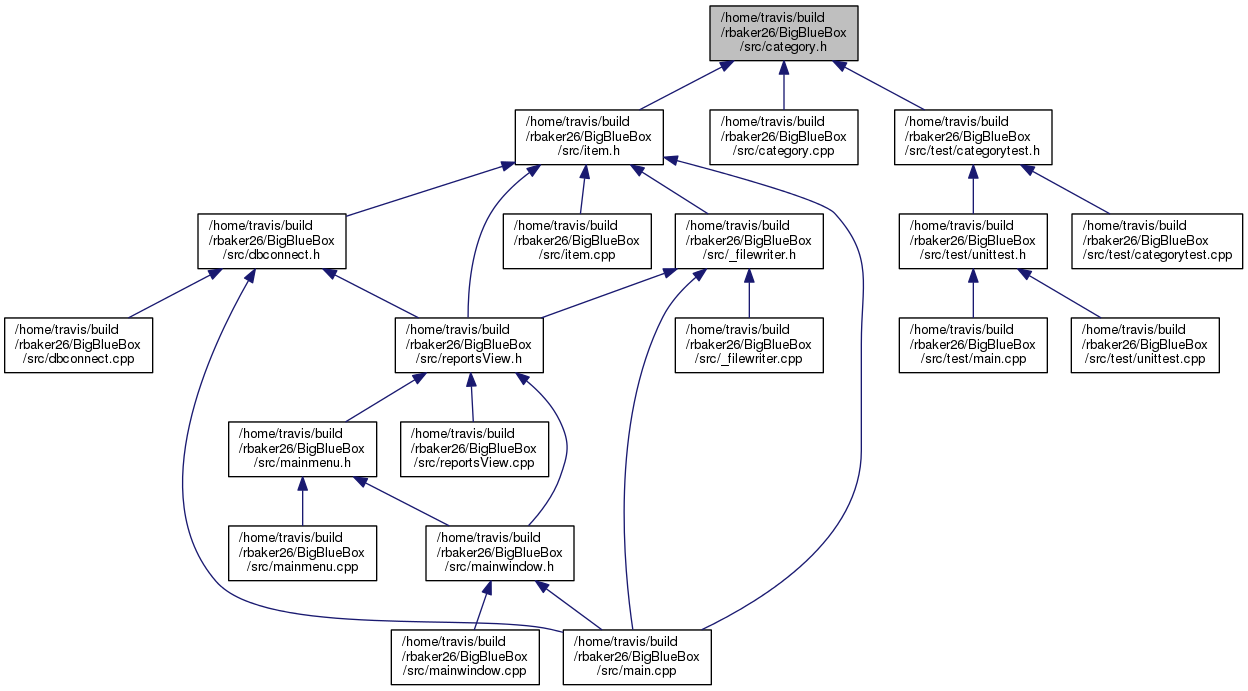
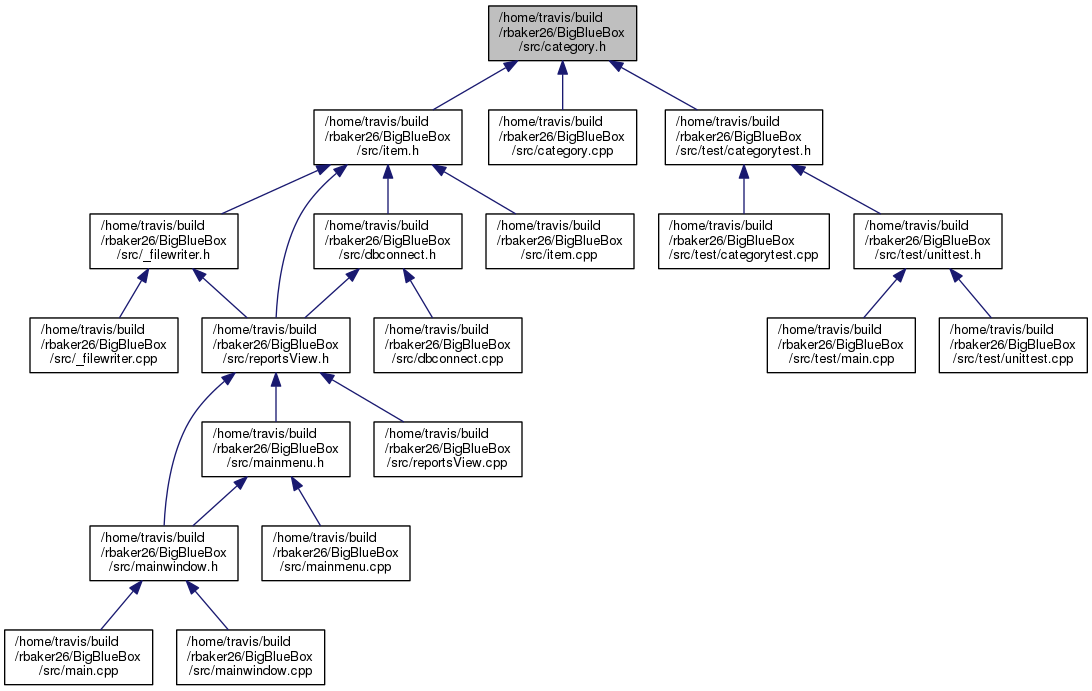
Deploy code docs to GitHub Pages Travis build: 295
Commit: ec091110b0eab5504ca6eb4e4512eb49ed3b5c34

diff --git a/html/category_8h.html b/html/category_8h.html
@@ -106,7 +106,7 @@ This graph shows which files directly or indirectly include this file:</div>
 <div class="dyncontent">
 <div class="center"><img src="category_8h__dep__incl.png" border="0" usemap="#_2home_2travis_2build_2rbaker26_2_big_blue_box_2src_2category_8hdep" alt=""/></div>
 <map name="_2home_2travis_2build_2rbaker26_2_big_blue_box_2src_2category_8hdep" id="_2home_2travis_2build_2rbaker26_2_big_blue_box_2src_2category_8hdep">
-<area shape="rect" id="node2" href="item_8h.html" title="/home/travis/build\l/rbaker26/BigBlueBox\l/src/item.h" alt="" coords="515,109,663,165"/><area shape="rect" id="node15" href="category_8cpp.html" title="/home/travis/build\l/rbaker26/BigBlueBox\l/src/category.cpp" alt="" coords="710,109,857,165"/><area shape="rect" id="node16" href="categorytest_8h.html" title="/home/travis/build\l/rbaker26/BigBlueBox\l/src/test/categorytest.h" alt="" coords="895,109,1052,165"/><area shape="rect" id="node3" href="__filewriter_8h.html" title="/home/travis/build\l/rbaker26/BigBlueBox\l/src/_filewriter.h" alt="" coords="675,213,823,269"/><area shape="rect" id="node5" href="reports_view_8h.html" title="/home/travis/build\l/rbaker26/BigBlueBox\l/src/reportsView.h" alt="" coords="395,317,543,373"/><area shape="rect" id="node7" href="main_8cpp.html" title="/home/travis/build\l/rbaker26/BigBlueBox\l/src/main.cpp" alt="" coords="563,629,711,685"/><area shape="rect" id="node12" href="dbconnect_8h.html" title="/home/travis/build\l/rbaker26/BigBlueBox\l/src/dbconnect.h" alt="" coords="198,213,345,269"/><area shape="rect" id="node14" href="item_8cpp.html" title="/home/travis/build\l/rbaker26/BigBlueBox\l/src/item.cpp" alt="" coords="503,213,651,269"/><area shape="rect" id="node4" href="__filewriter_8cpp.html" title="/home/travis/build\l/rbaker26/BigBlueBox\l/src/_filewriter.cpp" alt="" coords="675,317,823,373"/><area shape="rect" id="node6" href="mainwindow_8h.html" title="/home/travis/build\l/rbaker26/BigBlueBox\l/src/mainwindow.h" alt="" coords="426,525,573,581"/><area shape="rect" id="node9" href="mainmenu_8h.html" title="/home/travis/build\l/rbaker26/BigBlueBox\l/src/mainmenu.h" alt="" coords="229,421,376,477"/><area shape="rect" id="node11" href="reports_view_8cpp.html" title="/home/travis/build\l/rbaker26/BigBlueBox\l/src/reportsView.cpp" alt="" coords="401,421,548,477"/><area shape="rect" id="node8" href="mainwindow_8cpp.html" title="/home/travis/build\l/rbaker26/BigBlueBox\l/src/mainwindow.cpp" alt="" coords="391,629,539,685"/><area shape="rect" id="node10" href="mainmenu_8cpp.html" title="/home/travis/build\l/rbaker26/BigBlueBox\l/src/mainmenu.cpp" alt="" coords="229,525,376,581"/><area shape="rect" id="node13" href="dbconnect_8cpp.html" title="/home/travis/build\l/rbaker26/BigBlueBox\l/src/dbconnect.cpp" alt="" coords="5,317,152,373"/><area shape="rect" id="node17" href="categorytest_8cpp.html" title="/home/travis/build\l/rbaker26/BigBlueBox\l/src/test/categorytest.cpp" alt="" coords="1072,213,1243,269"/><area shape="rect" id="node18" href="unittest_8h.html" title="/home/travis/build\l/rbaker26/BigBlueBox\l/src/test/unittest.h" alt="" coords="899,213,1047,269"/><area shape="rect" id="node19" href="test_2main_8cpp.html" title="/home/travis/build\l/rbaker26/BigBlueBox\l/src/test/main.cpp" alt="" coords="899,317,1047,373"/><area shape="rect" id="node20" href="unittest_8cpp.html" title="/home/travis/build\l/rbaker26/BigBlueBox\l/src/test/unittest.cpp" alt="" coords="1071,317,1219,373"/></map>
+<area shape="rect" id="node2" href="item_8h.html" title="/home/travis/build\l/rbaker26/BigBlueBox\l/src/item.h" alt="" coords="314,109,461,165"/><area shape="rect" id="node15" href="category_8cpp.html" title="/home/travis/build\l/rbaker26/BigBlueBox\l/src/category.cpp" alt="" coords="489,109,636,165"/><area shape="rect" id="node16" href="categorytest_8h.html" title="/home/travis/build\l/rbaker26/BigBlueBox\l/src/test/categorytest.h" alt="" coords="665,109,823,165"/><area shape="rect" id="node3" href="__filewriter_8h.html" title="/home/travis/build\l/rbaker26/BigBlueBox\l/src/_filewriter.h" alt="" coords="90,213,237,269"/><area shape="rect" id="node5" href="reports_view_8h.html" title="/home/travis/build\l/rbaker26/BigBlueBox\l/src/reportsView.h" alt="" coords="202,317,349,373"/><area shape="rect" id="node12" href="dbconnect_8h.html" title="/home/travis/build\l/rbaker26/BigBlueBox\l/src/dbconnect.h" alt="" coords="314,213,461,269"/><area shape="rect" id="node14" href="item_8cpp.html" title="/home/travis/build\l/rbaker26/BigBlueBox\l/src/item.cpp" alt="" coords="486,213,633,269"/><area shape="rect" id="node4" href="__filewriter_8cpp.html" title="/home/travis/build\l/rbaker26/BigBlueBox\l/src/_filewriter.cpp" alt="" coords="30,317,177,373"/><area shape="rect" id="node6" href="mainwindow_8h.html" title="/home/travis/build\l/rbaker26/BigBlueBox\l/src/mainwindow.h" alt="" coords="90,525,237,581"/><area shape="rect" id="node9" href="mainmenu_8h.html" title="/home/travis/build\l/rbaker26/BigBlueBox\l/src/mainmenu.h" alt="" coords="202,421,349,477"/><area shape="rect" id="node11" href="reports_view_8cpp.html" title="/home/travis/build\l/rbaker26/BigBlueBox\l/src/reportsView.cpp" alt="" coords="374,421,521,477"/><area shape="rect" id="node7" href="main_8cpp.html" title="/home/travis/build\l/rbaker26/BigBlueBox\l/src/main.cpp" alt="" coords="5,629,152,685"/><area shape="rect" id="node8" href="mainwindow_8cpp.html" title="/home/travis/build\l/rbaker26/BigBlueBox\l/src/mainwindow.cpp" alt="" coords="177,629,324,685"/><area shape="rect" id="node10" href="mainmenu_8cpp.html" title="/home/travis/build\l/rbaker26/BigBlueBox\l/src/mainmenu.cpp" alt="" coords="262,525,409,581"/><area shape="rect" id="node13" href="dbconnect_8cpp.html" title="/home/travis/build\l/rbaker26/BigBlueBox\l/src/dbconnect.cpp" alt="" coords="374,317,521,373"/><area shape="rect" id="node17" href="categorytest_8cpp.html" title="/home/travis/build\l/rbaker26/BigBlueBox\l/src/test/categorytest.cpp" alt="" coords="659,213,829,269"/><area shape="rect" id="node18" href="unittest_8h.html" title="/home/travis/build\l/rbaker26/BigBlueBox\l/src/test/unittest.h" alt="" coords="854,213,1001,269"/><area shape="rect" id="node19" href="test_2main_8cpp.html" title="/home/travis/build\l/rbaker26/BigBlueBox\l/src/test/main.cpp" alt="" coords="767,317,915,373"/><area shape="rect" id="node20" href="unittest_8cpp.html" title="/home/travis/build\l/rbaker26/BigBlueBox\l/src/test/unittest.cpp" alt="" coords="939,317,1087,373"/></map>
 </div>
 </div>
 <p><a href="category_8h_source.html">Go to the source code of this file.</a></p>

diff --git a/html/item_8h.html b/html/item_8h.html
@@ -107,7 +107,7 @@ This graph shows which files directly or indirectly include this file:</div>
 <div class="dyncontent">
 <div class="center"><img src="item_8h__dep__incl.png" border="0" usemap="#_2home_2travis_2build_2rbaker26_2_big_blue_box_2src_2item_8hdep" alt=""/></div>
 <map name="_2home_2travis_2build_2rbaker26_2_big_blue_box_2src_2item_8hdep" id="_2home_2travis_2build_2rbaker26_2_big_blue_box_2src_2item_8hdep">
-<area shape="rect" id="node2" href="__filewriter_8h.html" title="/home/travis/build\l/rbaker26/BigBlueBox\l/src/_filewriter.h" alt="" coords="162,109,309,165"/><area shape="rect" id="node4" href="reports_view_8h.html" title="/home/travis/build\l/rbaker26/BigBlueBox\l/src/reportsView.h" alt="" coords="293,213,440,269"/><area shape="rect" id="node6" href="main_8cpp.html" title="/home/travis/build\l/rbaker26/BigBlueBox\l/src/main.cpp" alt="" coords="142,525,289,581"/><area shape="rect" id="node11" href="dbconnect_8h.html" title="/home/travis/build\l/rbaker26/BigBlueBox\l/src/dbconnect.h" alt="" coords="398,109,545,165"/><area shape="rect" id="node13" href="item_8cpp.html" title="/home/travis/build\l/rbaker26/BigBlueBox\l/src/item.cpp" alt="" coords="570,109,717,165"/><area shape="rect" id="node3" href="__filewriter_8cpp.html" title="/home/travis/build\l/rbaker26/BigBlueBox\l/src/_filewriter.cpp" alt="" coords="43,213,191,269"/><area shape="rect" id="node5" href="mainwindow_8h.html" title="/home/travis/build\l/rbaker26/BigBlueBox\l/src/mainwindow.h" alt="" coords="254,421,401,477"/><area shape="rect" id="node8" href="mainmenu_8h.html" title="/home/travis/build\l/rbaker26/BigBlueBox\l/src/mainmenu.h" alt="" coords="305,317,452,373"/><area shape="rect" id="node10" href="reports_view_8cpp.html" title="/home/travis/build\l/rbaker26/BigBlueBox\l/src/reportsView.cpp" alt="" coords="477,317,624,373"/><area shape="rect" id="node7" href="mainwindow_8cpp.html" title="/home/travis/build\l/rbaker26/BigBlueBox\l/src/mainwindow.cpp" alt="" coords="314,525,461,581"/><area shape="rect" id="node9" href="mainmenu_8cpp.html" title="/home/travis/build\l/rbaker26/BigBlueBox\l/src/mainmenu.cpp" alt="" coords="426,421,573,477"/><area shape="rect" id="node12" href="dbconnect_8cpp.html" title="/home/travis/build\l/rbaker26/BigBlueBox\l/src/dbconnect.cpp" alt="" coords="701,213,848,269"/></map>
+<area shape="rect" id="node2" href="__filewriter_8h.html" title="/home/travis/build\l/rbaker26/BigBlueBox\l/src/_filewriter.h" alt="" coords="90,109,237,165"/><area shape="rect" id="node4" href="reports_view_8h.html" title="/home/travis/build\l/rbaker26/BigBlueBox\l/src/reportsView.h" alt="" coords="202,213,349,269"/><area shape="rect" id="node11" href="dbconnect_8h.html" title="/home/travis/build\l/rbaker26/BigBlueBox\l/src/dbconnect.h" alt="" coords="314,109,461,165"/><area shape="rect" id="node13" href="item_8cpp.html" title="/home/travis/build\l/rbaker26/BigBlueBox\l/src/item.cpp" alt="" coords="486,109,633,165"/><area shape="rect" id="node3" href="__filewriter_8cpp.html" title="/home/travis/build\l/rbaker26/BigBlueBox\l/src/_filewriter.cpp" alt="" coords="30,213,177,269"/><area shape="rect" id="node5" href="mainwindow_8h.html" title="/home/travis/build\l/rbaker26/BigBlueBox\l/src/mainwindow.h" alt="" coords="90,421,237,477"/><area shape="rect" id="node8" href="mainmenu_8h.html" title="/home/travis/build\l/rbaker26/BigBlueBox\l/src/mainmenu.h" alt="" coords="202,317,349,373"/><area shape="rect" id="node10" href="reports_view_8cpp.html" title="/home/travis/build\l/rbaker26/BigBlueBox\l/src/reportsView.cpp" alt="" coords="374,317,521,373"/><area shape="rect" id="node6" href="main_8cpp.html" title="/home/travis/build\l/rbaker26/BigBlueBox\l/src/main.cpp" alt="" coords="5,525,152,581"/><area shape="rect" id="node7" href="mainwindow_8cpp.html" title="/home/travis/build\l/rbaker26/BigBlueBox\l/src/mainwindow.cpp" alt="" coords="177,525,324,581"/><area shape="rect" id="node9" href="mainmenu_8cpp.html" title="/home/travis/build\l/rbaker26/BigBlueBox\l/src/mainmenu.cpp" alt="" coords="262,421,409,477"/><area shape="rect" id="node12" href="dbconnect_8cpp.html" title="/home/travis/build\l/rbaker26/BigBlueBox\l/src/dbconnect.cpp" alt="" coords="374,213,521,269"/></map>
 </div>
 </div>
 <p><a href="item_8h_source.html">Go to the source code of this file.</a></p>

diff --git a/html/main_8cpp.html b/html/main_8cpp.html
@@ -93,17 +93,12 @@ var searchBox = new SearchBox("searchBox", "search",false,'Search');
 <div class="contents">
 <div class="textblock"><code>#include &quot;<a class="el" href="mainwindow_8h_source.html">mainwindow.h</a>&quot;</code><br/>
 <code>#include &lt;QApplication&gt;</code><br/>
-<code>#include &quot;<a class="el" href="item_8h_source.html">item.h</a>&quot;</code><br/>
-<code>#include &quot;<a class="el" href="dbconnect_8h_source.html">dbconnect.h</a>&quot;</code><br/>
-<code>#include &quot;QDebug&quot;</code><br/>
-<code>#include &lt;QVector&gt;</code><br/>
-<code>#include &quot;<a class="el" href="__filewriter_8h_source.html">_filewriter.h</a>&quot;</code><br/>
 </div><div class="textblock"><div class="dynheader">
 Include dependency graph for main.cpp:</div>
 <div class="dyncontent">
 <div class="center"><img src="main_8cpp__incl.png" border="0" usemap="#_2home_2travis_2build_2rbaker26_2_big_blue_box_2src_2main_8cpp" alt=""/></div>
 <map name="_2home_2travis_2build_2rbaker26_2_big_blue_box_2src_2main_8cpp" id="_2home_2travis_2build_2rbaker26_2_big_blue_box_2src_2main_8cpp">
-<area shape="rect" id="node2" href="mainwindow_8h.html" title="mainwindow.h" alt="" coords="571,109,676,136"/><area shape="rect" id="node9" href="dbconnect_8h.html" title="dbconnect.h" alt="" coords="237,333,330,360"/><area shape="rect" id="node18" href="item_8h.html" title="item.h" alt="" coords="808,408,865,435"/><area shape="rect" id="node24" href="__filewriter_8h.html" title="_filewriter.h" alt="" coords="1079,333,1168,360"/><area shape="rect" id="node4" href="gearcentral_8h.html" title="gearcentral.h" alt="" coords="316,259,413,285"/><area shape="rect" id="node6" href="reports_view_8h.html" title="reportsView.h" alt="" coords="660,259,762,285"/><area shape="rect" id="node29" href="mainmenu_8h.html" title="mainmenu.h" alt="" coords="577,184,670,211"/><area shape="rect" id="node22" href="__regex_8h.html" title="_regex.h" alt="" coords="568,333,640,360"/><area shape="rect" id="node19" href="category_8h.html" title="category.h" alt="" coords="844,483,925,509"/><area shape="rect" id="node30" href="settingspage_8h.html" title="pages/settingspage.h" alt="" coords="438,259,585,285"/></map>
+<area shape="rect" id="node2" href="mainwindow_8h.html" title="mainwindow.h" alt="" coords="991,109,1096,136"/><area shape="rect" id="node4" href="gearcentral_8h.html" title="gearcentral.h" alt="" coords="1020,259,1117,285"/><area shape="rect" id="node6" href="reports_view_8h.html" title="reportsView.h" alt="" coords="894,259,996,285"/><area shape="rect" id="node29" href="mainmenu_8h.html" title="mainmenu.h" alt="" coords="1108,184,1201,211"/><area shape="rect" id="node9" href="dbconnect_8h.html" title="dbconnect.h" alt="" coords="908,333,1001,360"/><area shape="rect" id="node18" href="item_8h.html" title="item.h" alt="" coords="537,408,594,435"/><area shape="rect" id="node22" href="__regex_8h.html" title="_regex.h" alt="" coords="1025,333,1097,360"/><area shape="rect" id="node24" href="__filewriter_8h.html" title="_filewriter.h" alt="" coords="410,333,498,360"/><area shape="rect" id="node19" href="category_8h.html" title="category.h" alt="" coords="573,483,654,509"/><area shape="rect" id="node30" href="settingspage_8h.html" title="pages/settingspage.h" alt="" coords="1193,259,1340,285"/></map>
 </div>
 </div><table class="memberdecls">
 <tr class="heading"><td colspan="2"><h2 class="groupheader"><a name="func-members"></a>

diff --git a/html/__filewriter_8h.html b/html/__filewriter_8h.html
@@ -112,7 +112,7 @@ This graph shows which files directly or indirectly include this file:</div>
 <div class="dyncontent">
 <div class="center"><img src="__filewriter_8h__dep__incl.png" border="0" usemap="#_2home_2travis_2build_2rbaker26_2_big_blue_box_2src_2__filewriter_8hdep" alt=""/></div>
 <map name="_2home_2travis_2build_2rbaker26_2_big_blue_box_2src_2__filewriter_8hdep" id="_2home_2travis_2build_2rbaker26_2_big_blue_box_2src_2__filewriter_8hdep">
-<area shape="rect" id="node2" href="__filewriter_8cpp.html" title="/home/travis/build\l/rbaker26/BigBlueBox\l/src/_filewriter.cpp" alt="" coords="5,109,152,165"/><area shape="rect" id="node3" href="reports_view_8h.html" title="/home/travis/build\l/rbaker26/BigBlueBox\l/src/reportsView.h" alt="" coords="177,109,324,165"/><area shape="rect" id="node5" href="main_8cpp.html" title="/home/travis/build\l/rbaker26/BigBlueBox\l/src/main.cpp" alt="" coords="290,421,437,477"/><area shape="rect" id="node4" href="mainwindow_8h.html" title="/home/travis/build\l/rbaker26/BigBlueBox\l/src/mainwindow.h" alt="" coords="34,317,181,373"/><area shape="rect" id="node7" href="mainmenu_8h.html" title="/home/travis/build\l/rbaker26/BigBlueBox\l/src/mainmenu.h" alt="" coords="90,213,237,269"/><area shape="rect" id="node9" href="reports_view_8cpp.html" title="/home/travis/build\l/rbaker26/BigBlueBox\l/src/reportsView.cpp" alt="" coords="262,213,409,269"/><area shape="rect" id="node6" href="mainwindow_8cpp.html" title="/home/travis/build\l/rbaker26/BigBlueBox\l/src/mainwindow.cpp" alt="" coords="34,421,181,477"/><area shape="rect" id="node8" href="mainmenu_8cpp.html" title="/home/travis/build\l/rbaker26/BigBlueBox\l/src/mainmenu.cpp" alt="" coords="206,317,353,373"/></map>
+<area shape="rect" id="node2" href="__filewriter_8cpp.html" title="/home/travis/build\l/rbaker26/BigBlueBox\l/src/_filewriter.cpp" alt="" coords="30,109,177,165"/><area shape="rect" id="node3" href="reports_view_8h.html" title="/home/travis/build\l/rbaker26/BigBlueBox\l/src/reportsView.h" alt="" coords="202,109,349,165"/><area shape="rect" id="node4" href="mainwindow_8h.html" title="/home/travis/build\l/rbaker26/BigBlueBox\l/src/mainwindow.h" alt="" coords="90,317,237,373"/><area shape="rect" id="node7" href="mainmenu_8h.html" title="/home/travis/build\l/rbaker26/BigBlueBox\l/src/mainmenu.h" alt="" coords="202,213,349,269"/><area shape="rect" id="node9" href="reports_view_8cpp.html" title="/home/travis/build\l/rbaker26/BigBlueBox\l/src/reportsView.cpp" alt="" coords="374,213,521,269"/><area shape="rect" id="node5" href="main_8cpp.html" title="/home/travis/build\l/rbaker26/BigBlueBox\l/src/main.cpp" alt="" coords="5,421,152,477"/><area shape="rect" id="node6" href="mainwindow_8cpp.html" title="/home/travis/build\l/rbaker26/BigBlueBox\l/src/mainwindow.cpp" alt="" coords="177,421,324,477"/><area shape="rect" id="node8" href="mainmenu_8cpp.html" title="/home/travis/build\l/rbaker26/BigBlueBox\l/src/mainmenu.cpp" alt="" coords="262,317,409,373"/></map>
 </div>
 </div>
 <p><a href="__filewriter_8h_source.html">Go to the source code of this file.</a></p>

diff --git a/html/dbconnect_8h.html b/html/dbconnect_8h.html
@@ -113,7 +113,7 @@ This graph shows which files directly or indirectly include this file:</div>
 <div class="dyncontent">
 <div class="center"><img src="dbconnect_8h__dep__incl.png" border="0" usemap="#_2home_2travis_2build_2rbaker26_2_big_blue_box_2src_2dbconnect_8hdep" alt=""/></div>
 <map name="_2home_2travis_2build_2rbaker26_2_big_blue_box_2src_2dbconnect_8hdep" id="_2home_2travis_2build_2rbaker26_2_big_blue_box_2src_2dbconnect_8hdep">
-<area shape="rect" id="node2" href="dbconnect_8cpp.html" title="/home/travis/build\l/rbaker26/BigBlueBox\l/src/dbconnect.cpp" alt="" coords="5,109,152,165"/><area shape="rect" id="node3" href="reports_view_8h.html" title="/home/travis/build\l/rbaker26/BigBlueBox\l/src/reportsView.h" alt="" coords="177,109,324,165"/><area shape="rect" id="node5" href="main_8cpp.html" title="/home/travis/build\l/rbaker26/BigBlueBox\l/src/main.cpp" alt="" coords="290,421,437,477"/><area shape="rect" id="node4" href="mainwindow_8h.html" title="/home/travis/build\l/rbaker26/BigBlueBox\l/src/mainwindow.h" alt="" coords="34,317,181,373"/><area shape="rect" id="node7" href="mainmenu_8h.html" title="/home/travis/build\l/rbaker26/BigBlueBox\l/src/mainmenu.h" alt="" coords="90,213,237,269"/><area shape="rect" id="node9" href="reports_view_8cpp.html" title="/home/travis/build\l/rbaker26/BigBlueBox\l/src/reportsView.cpp" alt="" coords="262,213,409,269"/><area shape="rect" id="node6" href="mainwindow_8cpp.html" title="/home/travis/build\l/rbaker26/BigBlueBox\l/src/mainwindow.cpp" alt="" coords="34,421,181,477"/><area shape="rect" id="node8" href="mainmenu_8cpp.html" title="/home/travis/build\l/rbaker26/BigBlueBox\l/src/mainmenu.cpp" alt="" coords="206,317,353,373"/></map>
+<area shape="rect" id="node2" href="dbconnect_8cpp.html" title="/home/travis/build\l/rbaker26/BigBlueBox\l/src/dbconnect.cpp" alt="" coords="30,109,177,165"/><area shape="rect" id="node3" href="reports_view_8h.html" title="/home/travis/build\l/rbaker26/BigBlueBox\l/src/reportsView.h" alt="" coords="202,109,349,165"/><area shape="rect" id="node4" href="mainwindow_8h.html" title="/home/travis/build\l/rbaker26/BigBlueBox\l/src/mainwindow.h" alt="" coords="90,317,237,373"/><area shape="rect" id="node7" href="mainmenu_8h.html" title="/home/travis/build\l/rbaker26/BigBlueBox\l/src/mainmenu.h" alt="" coords="202,213,349,269"/><area shape="rect" id="node9" href="reports_view_8cpp.html" title="/home/travis/build\l/rbaker26/BigBlueBox\l/src/reportsView.cpp" alt="" coords="374,213,521,269"/><area shape="rect" id="node5" href="main_8cpp.html" title="/home/travis/build\l/rbaker26/BigBlueBox\l/src/main.cpp" alt="" coords="5,421,152,477"/><area shape="rect" id="node6" href="mainwindow_8cpp.html" title="/home/travis/build\l/rbaker26/BigBlueBox\l/src/mainwindow.cpp" alt="" coords="177,421,324,477"/><area shape="rect" id="node8" href="mainmenu_8cpp.html" title="/home/travis/build\l/rbaker26/BigBlueBox\l/src/mainmenu.cpp" alt="" coords="262,317,409,373"/></map>
 </div>
 </div>
 <p><a href="dbconnect_8h_source.html">Go to the source code of this file.</a></p>

diff --git a/html/qrc__rec_8cpp.html b/html/qrc__rec_8cpp.html
@@ -308,14 +308,14 @@ Here is the caller graph for this function:</div>
 <div class="line">  0x0,0x6d,0x0,0x67,</div>
 <div class="line">    </div>
 <div class="line">  0x0,0xc,</div>
-<div class="line">  0x8,0xa1,0x20,0x87,</div>
-<div class="line">  0x0,0x6e,</div>
-<div class="line">  0x0,0x79,0x0,0x6c,0x0,0x74,0x0,0x49,0x0,0x63,0x0,0x6f,0x0,0x6e,0x0,0x2e,0x0,0x6a,0x0,0x70,0x0,0x67,</div>
-<div class="line">    </div>
-<div class="line">  0x0,0xc,</div>
 <div class="line">  0x8,0xa1,0x26,0xa7,</div>
 <div class="line">  0x0,0x6e,</div>
 <div class="line">  0x0,0x79,0x0,0x6c,0x0,0x74,0x0,0x49,0x0,0x63,0x0,0x6f,0x0,0x6e,0x0,0x2e,0x0,0x70,0x0,0x6e,0x0,0x67,</div>
+<div class="line">    </div>
+<div class="line">  0x0,0xc,</div>
+<div class="line">  0x8,0xa1,0x20,0x87,</div>
+<div class="line">  0x0,0x6e,</div>
+<div class="line">  0x0,0x79,0x0,0x6c,0x0,0x74,0x0,0x49,0x0,0x63,0x0,0x6f,0x0,0x6e,0x0,0x2e,0x0,0x6a,0x0,0x70,0x0,0x67,</div>
 <div class="line">  </div>
 <div class="line">}</div>
 </div><!-- fragment -->
@@ -344,9 +344,9 @@ Here is the caller graph for this function:</div>
 <div class="line">  </div>
 <div class="line">  0x0,0x0,0x0,0x0,0x0,0x2,0x0,0x0,0x0,0x2,0x0,0x0,0x0,0x2,</div>
 <div class="line">  </div>
-<div class="line">  0x0,0x0,0x0,0xc,0x0,0x0,0x0,0x0,0x0,0x1,0x0,0x0,0x0,0x0,</div>
+<div class="line">  0x0,0x0,0x0,0x2a,0x0,0x0,0x0,0x0,0x0,0x1,0x0,0x7,0x20,0x51,</div>
 <div class="line">  </div>
-<div class="line">  0x0,0x0,0x0,0x2a,0x0,0x0,0x0,0x0,0x0,0x1,0x0,0x1,0x46,0x39,</div>
+<div class="line">  0x0,0x0,0x0,0xc,0x0,0x0,0x0,0x0,0x0,0x1,0x0,0x0,0x0,0x0,</div>
 <div class="line"></div>
 <div class="line">}</div>
 </div><!-- fragment -->
